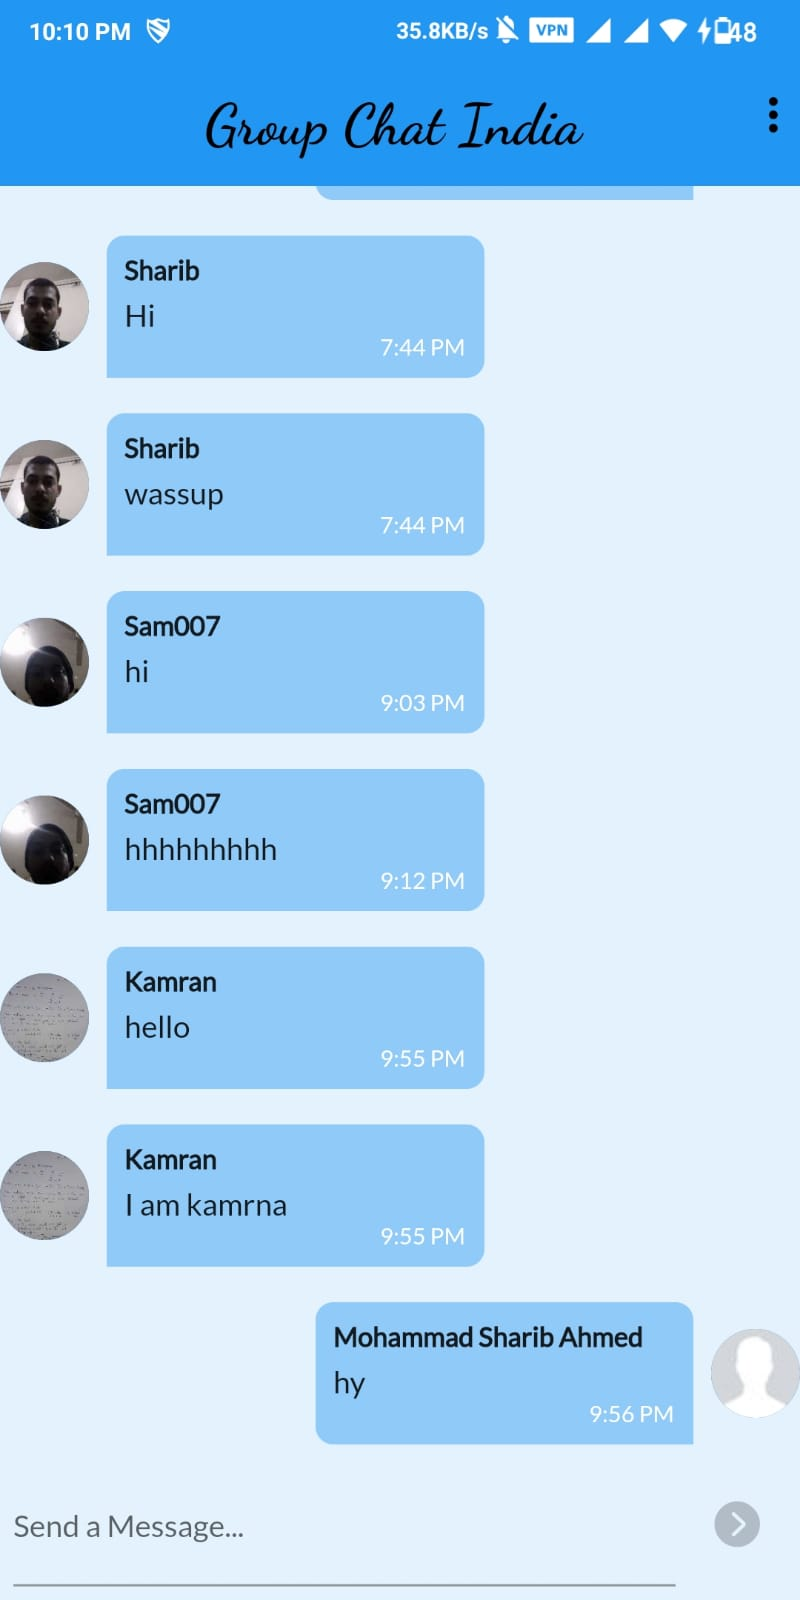
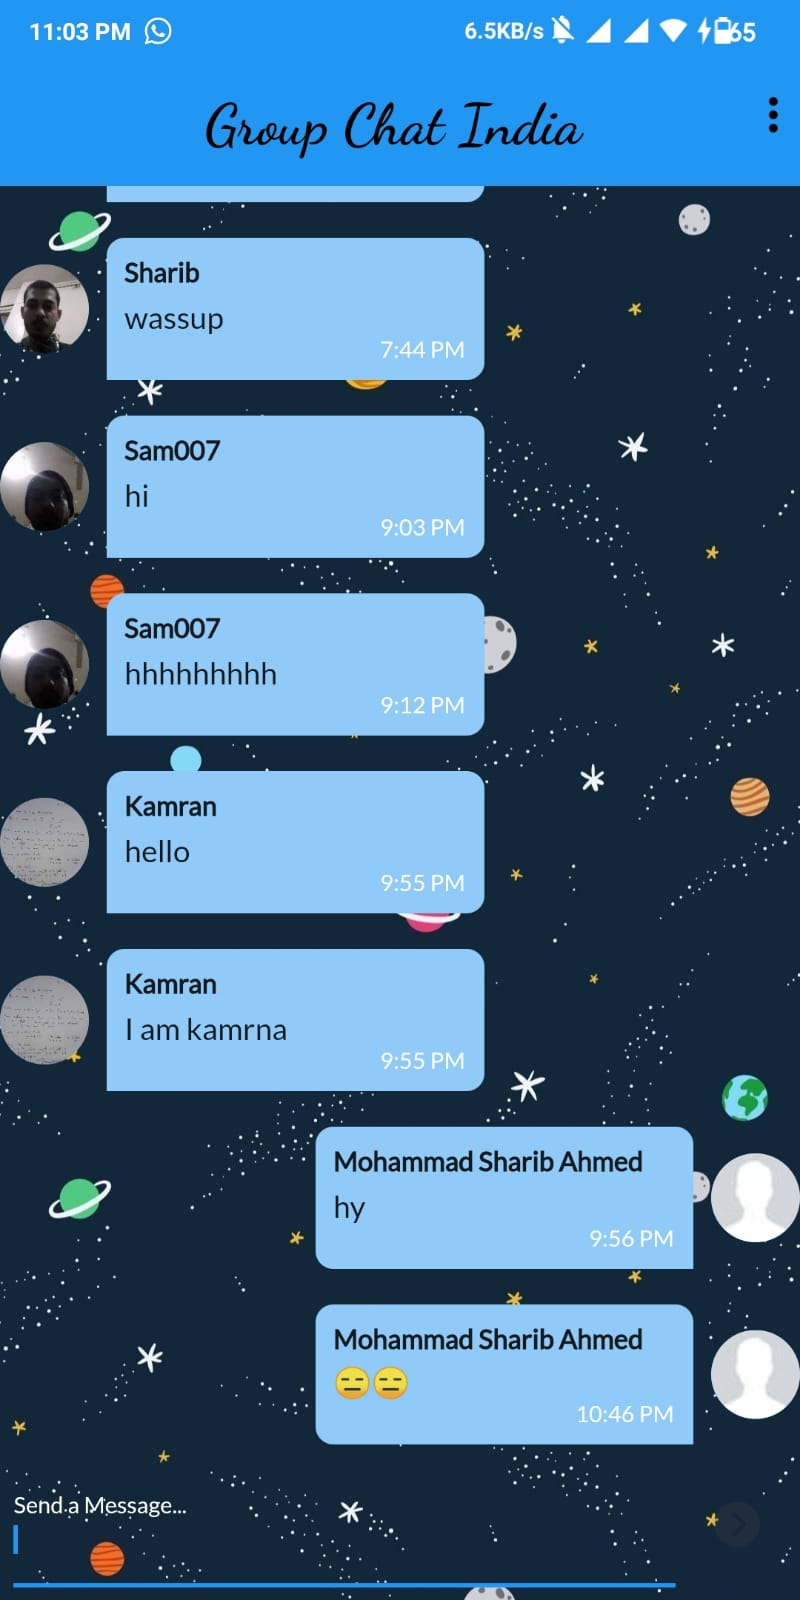
added chatscreen background image

diff --git a/lib/screens/chat_screen.dart b/lib/screens/chat_screen.dart
@@ -38,7 +38,7 @@ class _ChatScreenState extends State<ChatScreen> {
                 DropdownMenuItem(
                   child: Container(
                     child: Row(
-                      children: <Widget>[
+                      children: [
                         const Icon(Icons.exit_to_app),
                         const SizedBox(width: 8),
                         const Text('Logout'),
@@ -57,6 +57,11 @@ class _ChatScreenState extends State<ChatScreen> {
           ],
         ),
         body: Container(
+          decoration: BoxDecoration(
+              image: DecorationImage(
+                  image: NetworkImage(
+                      "https://wallpaperaccess.com/full/1288076.jpg"),
+                  fit: BoxFit.cover)),
           child: Column(
             children: [Expanded(child: Messages()), NewMesaage()],
           ),

diff --git a/lib/widgets/new_message.dart b/lib/widgets/new_message.dart
@@ -45,7 +45,9 @@ class _NewMesaageState extends State<NewMesaage> {
             textCapitalization: TextCapitalization.sentences,
             controller: textController,
             keyboardType: TextInputType.text,
-            decoration: const InputDecoration(labelText: 'Send a Message...'),
+            decoration: const InputDecoration(
+                labelText: 'Send a Message...',
+                labelStyle: const TextStyle(color: Colors.white)),
             onChanged: (value) {
               setState(() {
                 _enteredMessage = value;

diff --git a/lib/widgets/user_image_picker.dart b/lib/widgets/user_image_picker.dart
@@ -22,8 +22,8 @@ class _UserImagePickerState extends State<UserImagePicker> {
       if (pickedFile != null) {
         _image = File(pickedFile.path);
       } else {
-        ScaffoldMessenger.of(context)
-            .showSnackBar(SnackBar(content: Text('No Image Selected!')));
+        ScaffoldMessenger.of(context).showSnackBar(
+            const SnackBar(content: const Text('No Image Selected!')));
       }
     });
     Navigator.pop(context);

diff --git a/lib/screens/auth_screen.dart b/lib/screens/auth_screen.dart
@@ -33,6 +33,7 @@ class _AuthScreenState extends State<AuthScreen> {
       } else {
         authResult = await _auth.createUserWithEmailAndPassword(
             email: email, password: password);
+
         final ref = FirebaseStorage.instance
             .ref()
             .child('user_image')
